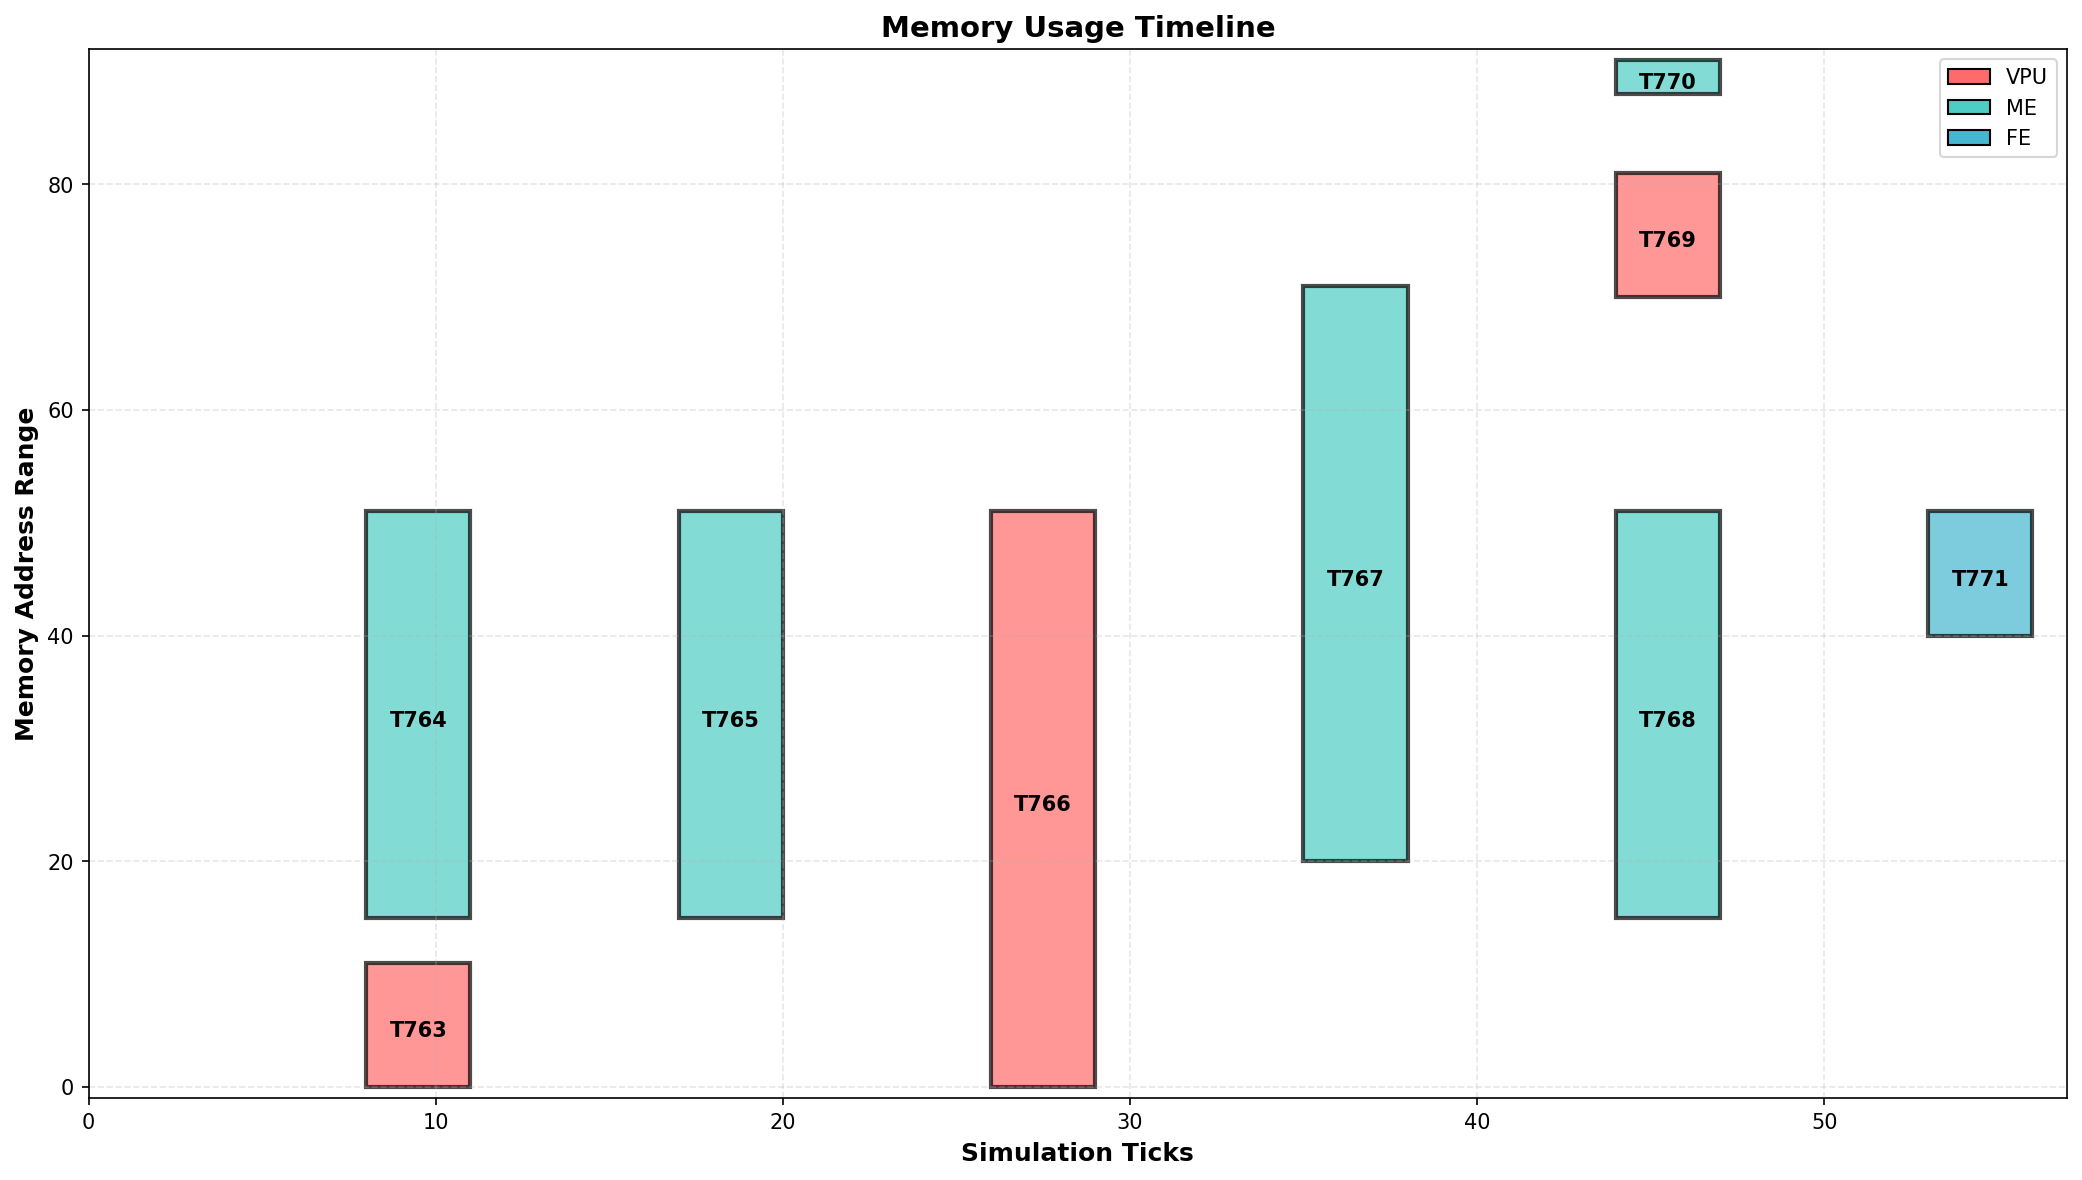
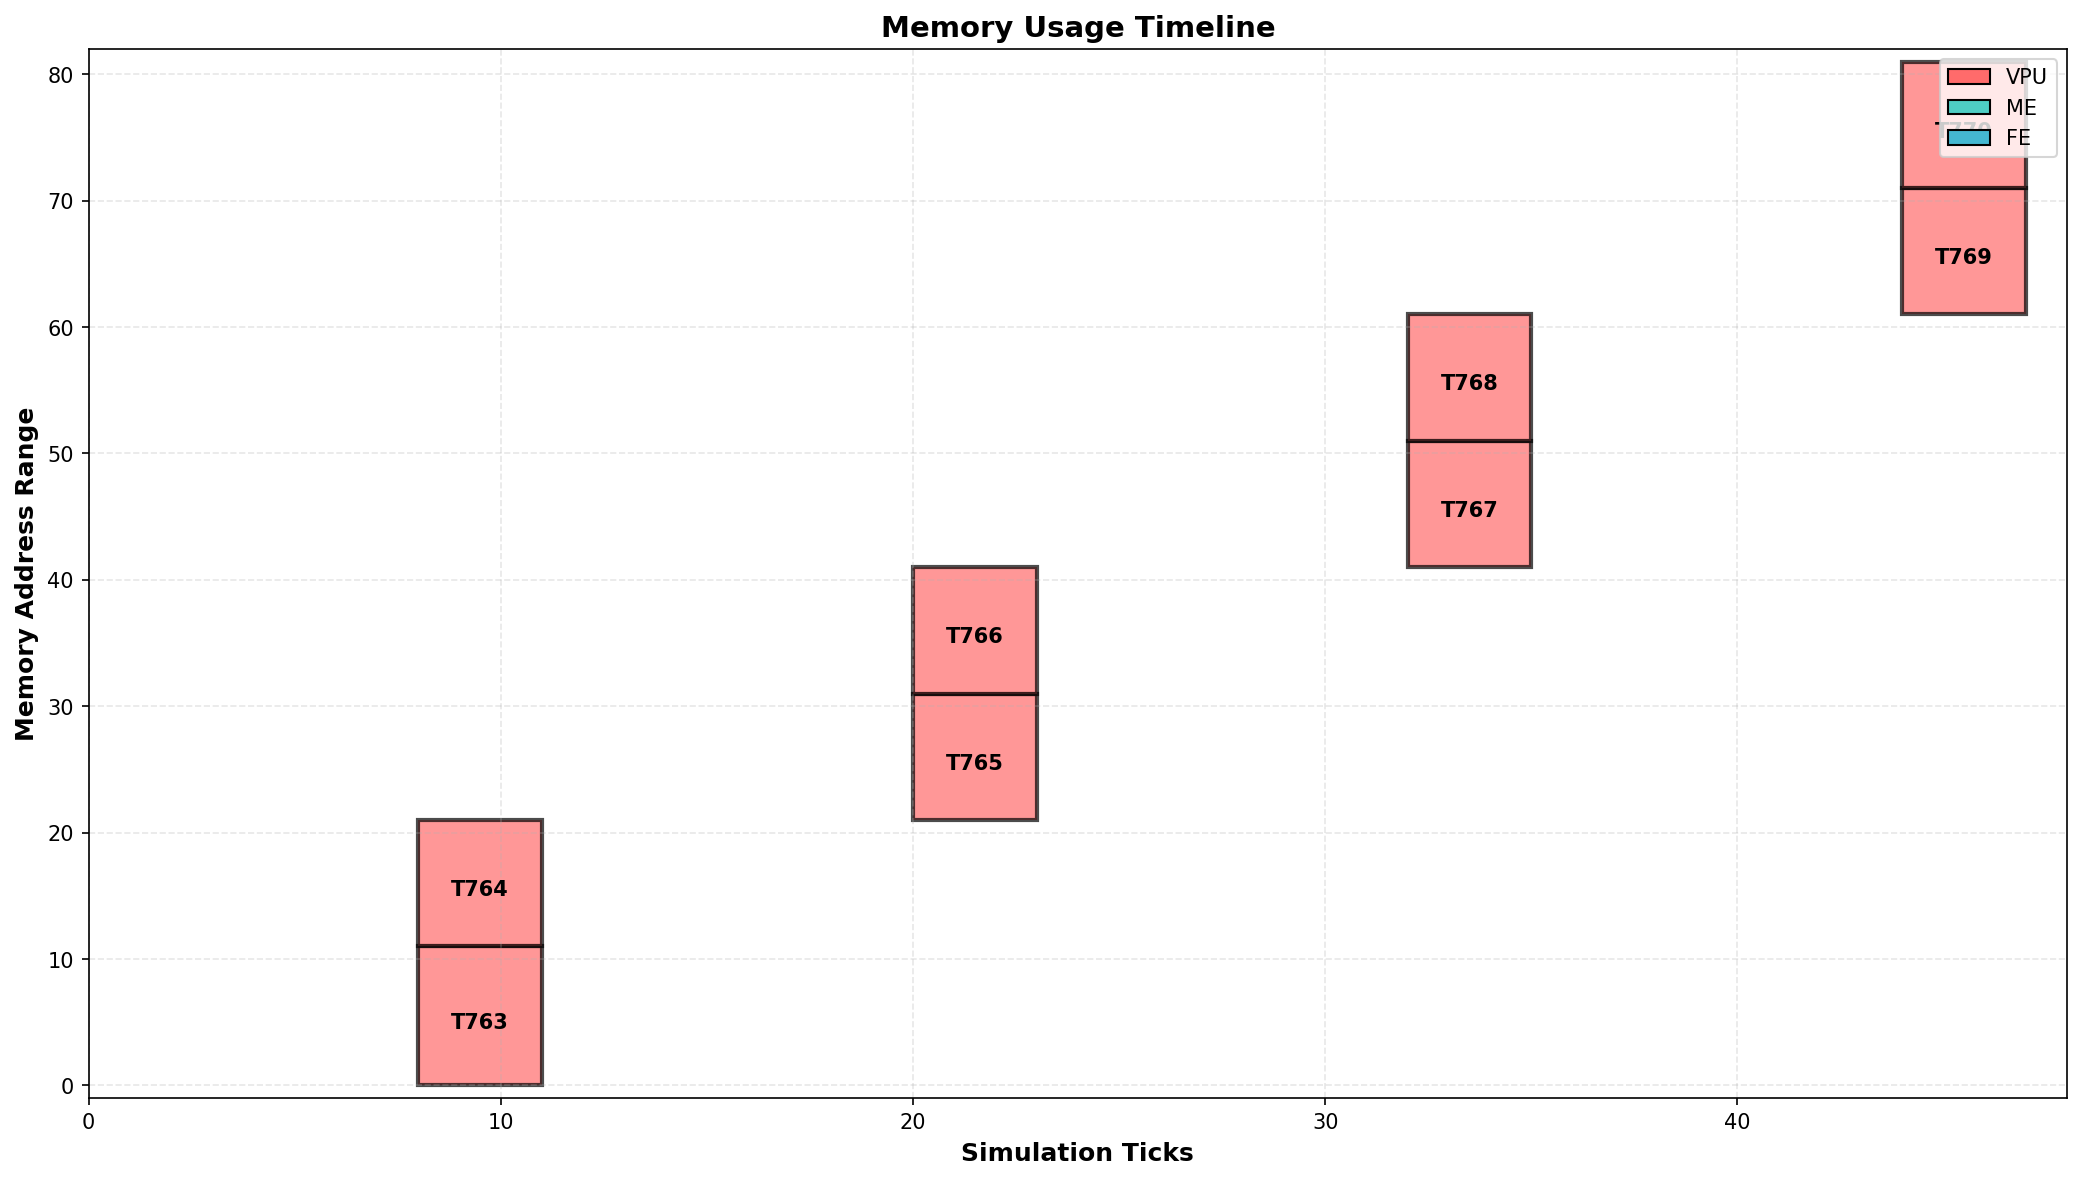
fix memory issue

diff --git a/components/TPC_CU.py b/components/TPC_CU.py
@@ -18,19 +18,39 @@ class TPC_CU(Unit):
         self._tpc: "TPC" = tpc
         self.noc: List[Tuple[int, int, "TPC_Executor" | None]] = []
         self._callback_on_complete_by_task: Dict["Task", Callable[["Task"], None]] = {}
+        self._max_queue_len: int = 20
+        self._send_queue: List["Task"] = []
 
     def get_queue_length(self) -> int:
         return len(self._queue)
 
     def add_task(self, task: "Task", callback_on_complete: Callable[["Task"], None]):
-        self.log(f"Adding {task} to CU queue")
+        self.log(f"Adding {task} to CU queue (len={len(self._queue)})")
+        if len(self._queue) >= self._max_queue_len:
+            self.log(f"CU queue full (limit={self._max_queue_len}), rejecting {task}")
+            return False
+
         self._queue.append(task)
         self._callback_on_complete_by_task[task] = callback_on_complete
+        return True
 
     def _on_complete_task(self, task: "Task"):
-        self.log(f"Releasing memory for completed task {task}")
-        Memory.release(self.noc, task.addr_start, task.addr_end)
-        self._callback_on_complete_by_task.pop(task, None)(task)
+        self.log(f"Scheduling send-to-global for completed task {task}")
+        Memory.free_owner(self.noc, task.addr_start, task.addr_end)
+        self._send_queue.append(task)
+
+        busy = (
+            self._tpc._VPU_executor.get_active_task() is not None or
+            self._tpc._ME_executor.get_active_task() is not None or
+            self._tpc._FE_executor.get_active_task() is not None
+        )
+
+        if busy or self._queue:
+                self.log("Executors busy or CU queue not empty — staying in WAIT")
+                self.set_status(Status.WAIT)
+                return
+
+        self.set_status(Status.SEND_TO_GLOBAL)
 
     def _is_in_noc(self, task: "Task") -> bool:
         return Memory.is_contained(self.noc, task.addr_start, task.addr_end)
@@ -86,10 +106,42 @@ class TPC_CU(Unit):
         self.set_status(Status.WAIT)
 
     def _send_to_global(self):
-        self.log("Sending task results to global memory")
-        if self.noc:
-            start, end, _ = self.noc.pop(0)
-            Memory.release(self.noc, start, end)
+        self.log("Processing send-to-global queue")
+
+        if not self._send_queue:
+            self.set_status(Status.WAIT)
+            return
+
+        tasks_to_send = self._send_queue[:]
+        self._send_queue.clear()
+
+        for task in tasks_to_send:
+            self.log(f"Sending results of {task} to global memory")
+
+            still_queued = any(
+                t != task and t.addr_start == task.addr_start and t.addr_end == task.addr_end
+                for t in self._queue
+            )
+
+            active_same_range = False
+            for exec_ in (self._tpc._VPU_executor, self._tpc._ME_executor, self._tpc._FE_executor):
+                active = exec_.get_active_task()
+                if active and active.addr_start == task.addr_start and active.addr_end == task.addr_end:
+                    active_same_range = True
+                    break
+
+            if still_queued or active_same_range:
+                self.log(f"Skipping memory release for {task}: range still in use")
+            else:
+                try:
+                    Memory.release(self.noc, task.addr_start, task.addr_end)
+                except Exception:
+                    self.log(f"Warning: failed to release NoC range for {task}")
+
+            callback = self._callback_on_complete_by_task.pop(task, None)
+            if callback:
+                callback(task)
+
         self.set_status(Status.WAIT)
 
     def _get_executor(self, task_type: "TaskType") -> "TPC_Executor":

diff --git a/main.py b/main.py
@@ -4,30 +4,30 @@ from components import CommandExecutor, Task, TaskType, TaskExporter, PlotGenera
 def main():
     print("Start program")
 
-    executor = CommandExecutor(tpc_count=8)
-
-    tasks = [
-        Task(0, 10, TaskType.VPU),
-        Task(15, 50, TaskType.ME),
-        Task(15, 50, TaskType.ME),
-        Task(0, 50, TaskType.VPU),
-        Task(20, 70, TaskType.ME),
-        Task(15, 50, TaskType.ME),
-        Task(70, 80, TaskType.VPU),
-        Task(88, 90, TaskType.ME),
-        Task(40, 50, TaskType.FE),
-    ]
+    executor = CommandExecutor(tpc_count=2)
 
     # tasks = [
     #     Task(0, 10, TaskType.VPU),
-    #     Task(11, 20, TaskType.VPU),
-    #     Task(21, 30, TaskType.VPU),
-    #     Task(31, 40, TaskType.VPU),
-    #     Task(41, 50, TaskType.VPU),
-    #     Task(51, 60, TaskType.VPU),
-    #     Task(61, 70, TaskType.VPU),
-    #     Task(71, 80, TaskType.VPU),
+    #     Task(15, 50, TaskType.ME),
+    #     Task(15, 50, TaskType.ME),
+    #     Task(0, 50, TaskType.VPU),
+    #     Task(20, 70, TaskType.ME),
+    #     Task(15, 50, TaskType.ME),
+    #     Task(70, 80, TaskType.VPU),
+    #     Task(88, 90, TaskType.ME),
+    #     Task(40, 50, TaskType.FE),
     # ]
+
+    tasks = [
+        Task(0, 10, TaskType.VPU),
+        Task(11, 20, TaskType.VPU),
+        Task(21, 30, TaskType.VPU),
+        Task(31, 40, TaskType.VPU),
+        Task(41, 50, TaskType.VPU),
+        Task(51, 60, TaskType.VPU),
+        Task(61, 70, TaskType.VPU),
+        Task(71, 80, TaskType.VPU),
+    ]
 
     print("\nInitial tasks:")
     for t in tasks:

diff --git a/components/TPC_Executor.py b/components/TPC_Executor.py
@@ -58,19 +58,20 @@ class TPC_Executor(Unit):
                 self.set_status(Status.EXEC_FE)
 
     def _exec(self):
-        if self._active_task.actual_start_time is None:
-            self._active_task.actual_start_time = self._current_tick
-        
         self.log(f"Executing task {self._active_task}")
 
-        self._active_task.executed_by = self.name
-        self._active_task.is_completed = True
-        
         exec_duration = EXEC_DURATION.get(self._status, 1)
-        self._active_task.actual_end_time = self._current_tick + exec_duration
-        
-        self._callback_on_complete(self._active_task)
 
+        executing_task = self._active_task
         self._active_task = None
+
+        executing_task.executed_by = self.name
+        executing_task.is_completed = True
+
+        executing_task.actual_start_time = self._current_tick - exec_duration
+        executing_task.actual_end_time = self._current_tick
+
+        self._callback_on_complete(executing_task)
         self._callback_on_complete = None
+
         self.set_status(Status.WAIT)

diff --git a/components/GlobalWorker.py b/components/GlobalWorker.py
@@ -47,11 +47,16 @@ class GlobalWorker(Unit):
                     self.log("All TPCs are busy or memory ranges conflict, waiting...")
                     break
 
-            self.log(f"Assigning {candidate_task} to {assigned_tpc.name}")
-            Memory.allocate(self.hbm, candidate_task.addr_start, candidate_task.addr_end, assigned_tpc)
+            self.log(f"Attempting to assign {candidate_task} to {assigned_tpc.name}")
 
+            accepted = assigned_tpc.add_task(candidate_task, self._on_complete_task)
+            if not accepted:
+                self.log(f"{assigned_tpc.name} rejected task (CU full). Will retry later.")
+                break
+
+            Memory.allocate(self.hbm, candidate_task.addr_start, candidate_task.addr_end, assigned_tpc)
             candidate_task.assigned_tpc = assigned_tpc
-            assigned_tpc.add_task(self._queue.pop(0), self._on_complete_task)
+            self._queue.pop(0)
 
     def _on_complete_task(self, task: "Task"):
         self.log(f"{task} completed and collected")

diff --git a/components/Unit.py b/components/Unit.py
@@ -8,8 +8,8 @@ _ENABLE_LOGS = True
 
 TICK_COUNT_BY_STATUS = {
     Status.WAIT: 0,
-    Status.COLLECT_TO_LOCAL: 2,
-    Status.SEND_TO_GLOBAL: 2,
+    Status.COLLECT_TO_LOCAL: 5,
+    Status.SEND_TO_GLOBAL: 5,
     Status.EXEC_VPU: 3,
     Status.EXEC_ME: 3,
     Status.EXEC_FE: 3,
@@ -41,7 +41,7 @@ class Unit(ABC):
 
     def set_status(self, status: Status):
         self._status = status
-        self._ticker = TICK_COUNT_BY_STATUS.get(status)
+        self._ticker = TICK_COUNT_BY_STATUS.get(status, 0)
 
     @abstractmethod
     def _action(self):

diff --git a/components/Memory.py b/components/Memory.py
@@ -46,3 +46,12 @@ class Memory:
     @staticmethod
     def release(ranges: List[RangeRecord], start: int, end: int) -> None:
         ranges[:] = [(s, e, o) for (s, e, o) in ranges if not (s == start and e == end)]
+
+    @staticmethod   
+    def free_owner(ranges: List[RangeRecord], start: int, end: int):
+        for i, (s, e, o) in enumerate(ranges):
+            if s == start and e == end:
+                ranges[i] = (s, e, None)
+                return True
+        return False
+    

diff --git a/components/TPC.py b/components/TPC.py
@@ -34,7 +34,7 @@ class TPC(Unit):
         return cu_queue_len + noc_used + active_executors
 
     def add_task(self, task: "Task", callback_on_complete: Callable[["Task"], None]):
-        self._TPC_CU.add_task(task, callback_on_complete)
+        return self._TPC_CU.add_task(task, callback_on_complete)
 
     def _action(self):
         self._TPC_CU.tick()

diff --git a/components/CommandExecutor.py b/components/CommandExecutor.py
@@ -7,7 +7,7 @@ from .Time import Time
 
 
 class CommandExecutor:
-    def __init__(self, tpc_count: int = 1, max_ticks: int = 1000):
+    def __init__(self, tpc_count: int = 1, max_ticks: int = 10000):
         self.tpc_count = tpc_count
         self.max_ticks = max_ticks
         self.time = Time()
